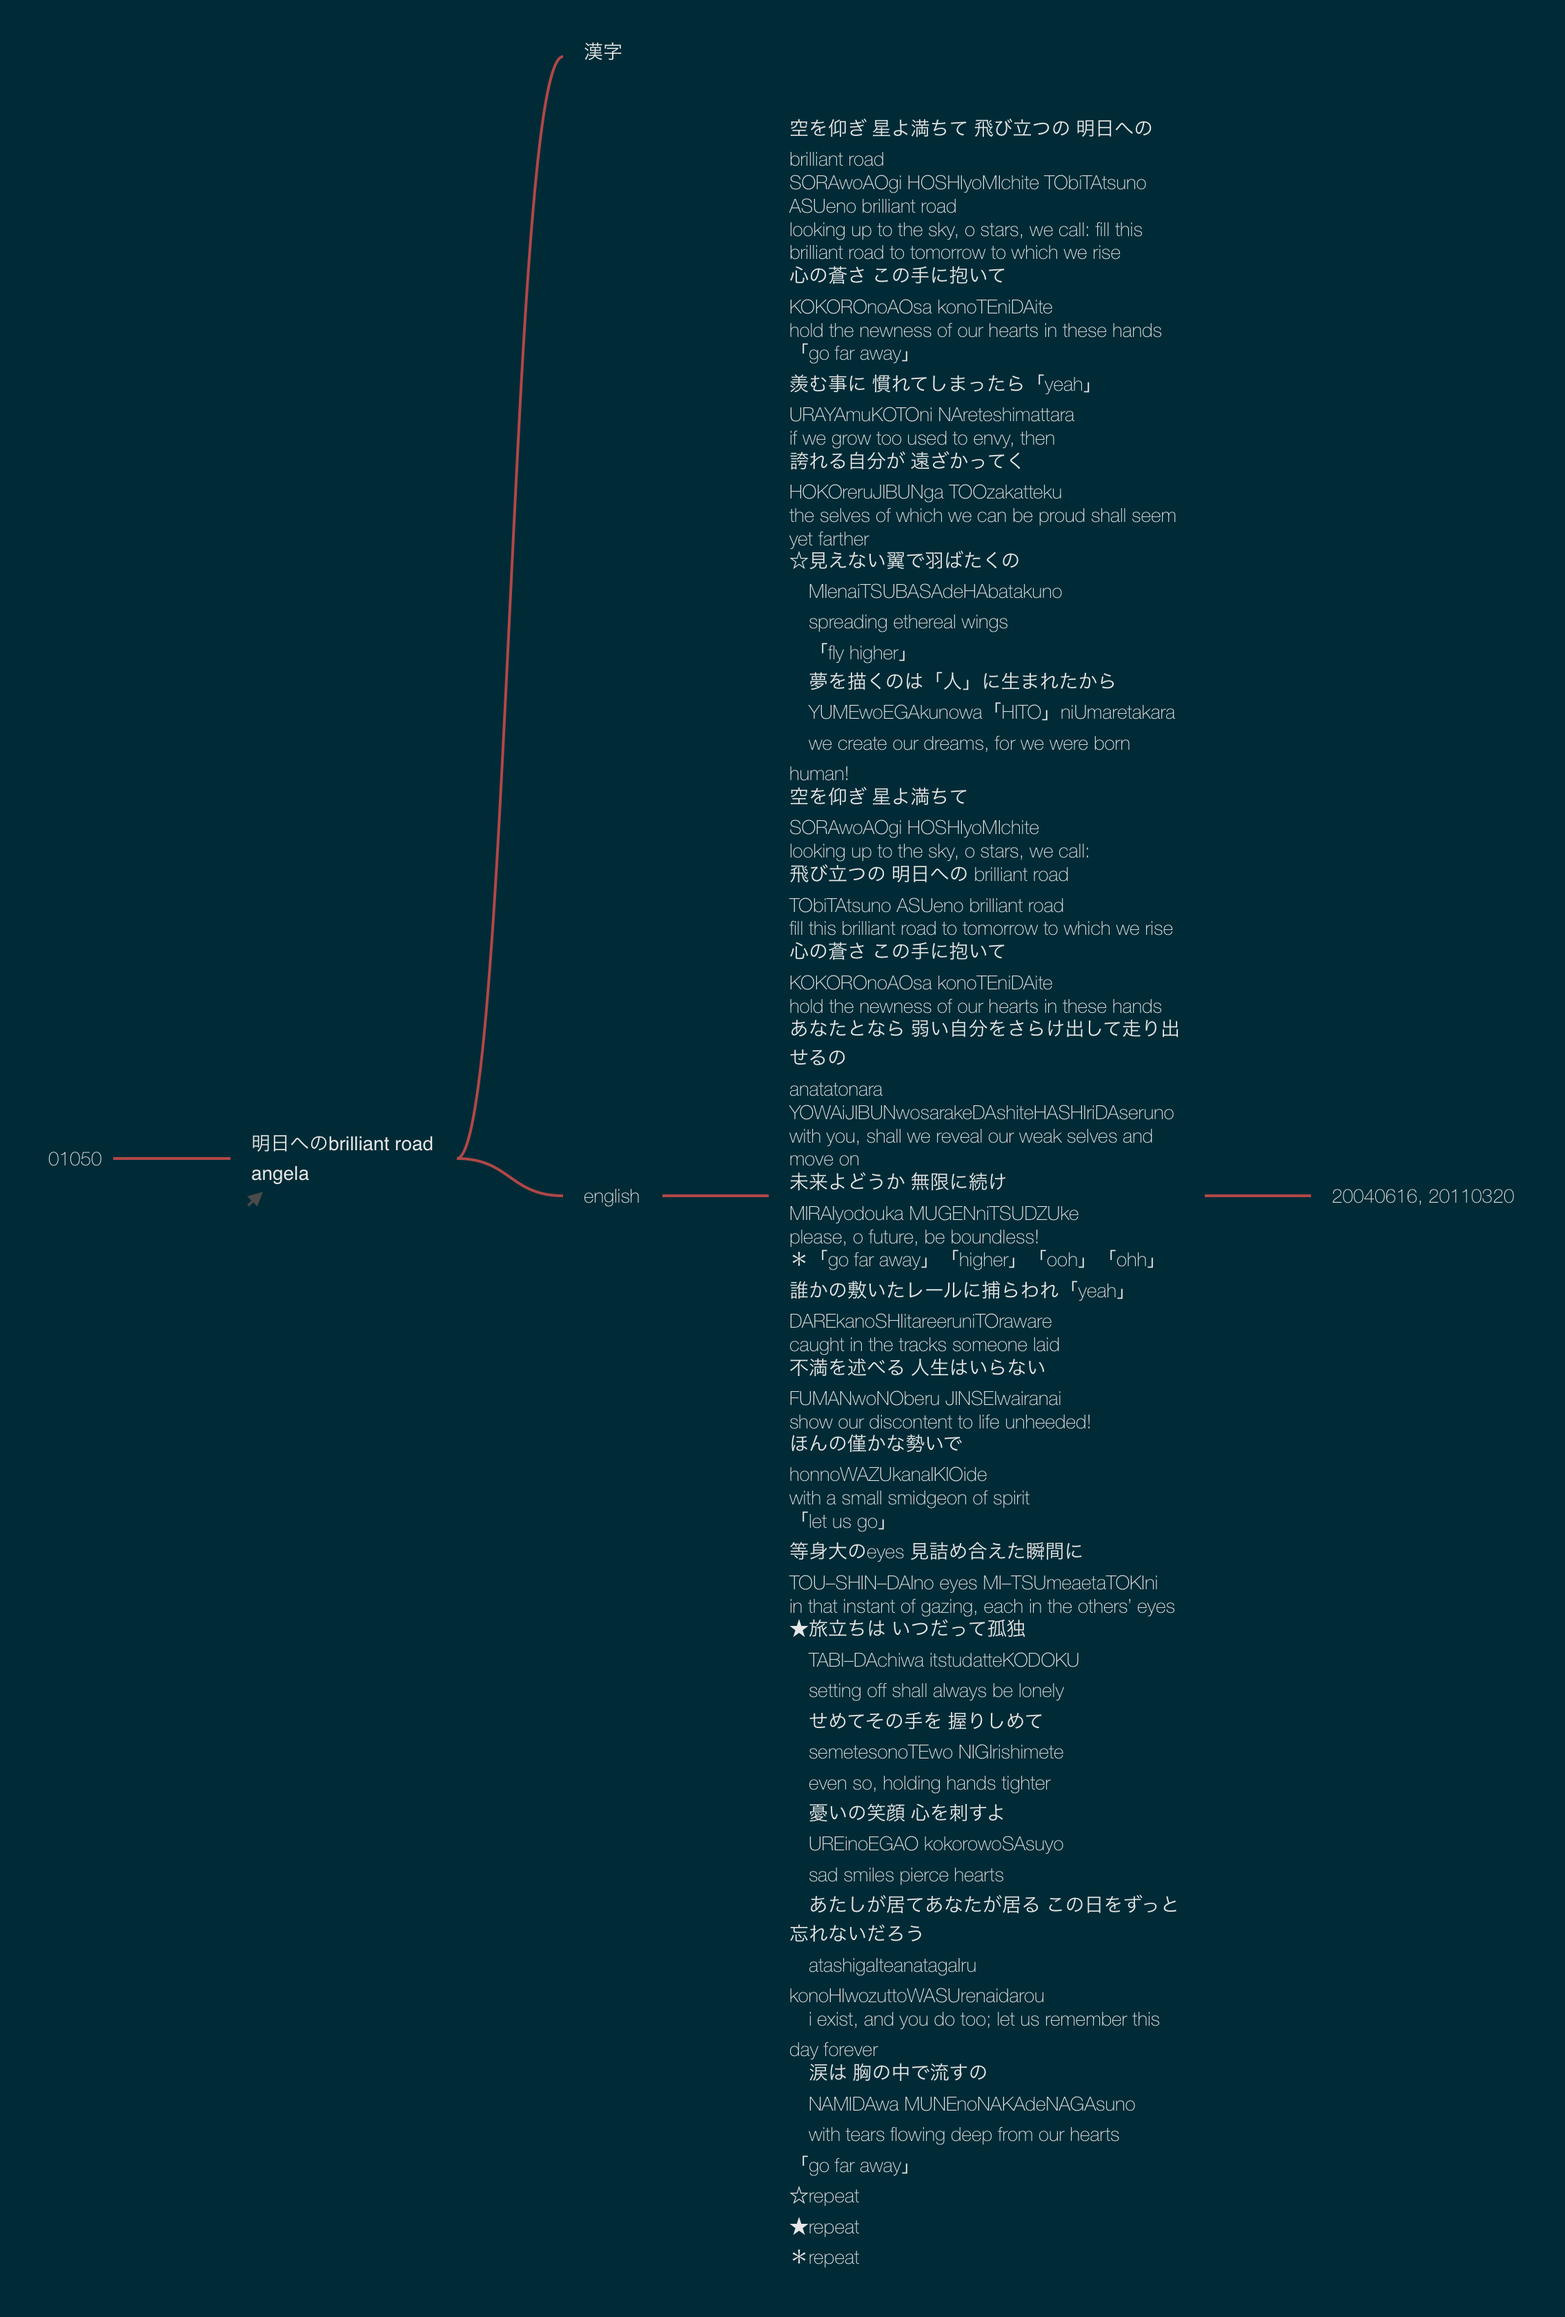
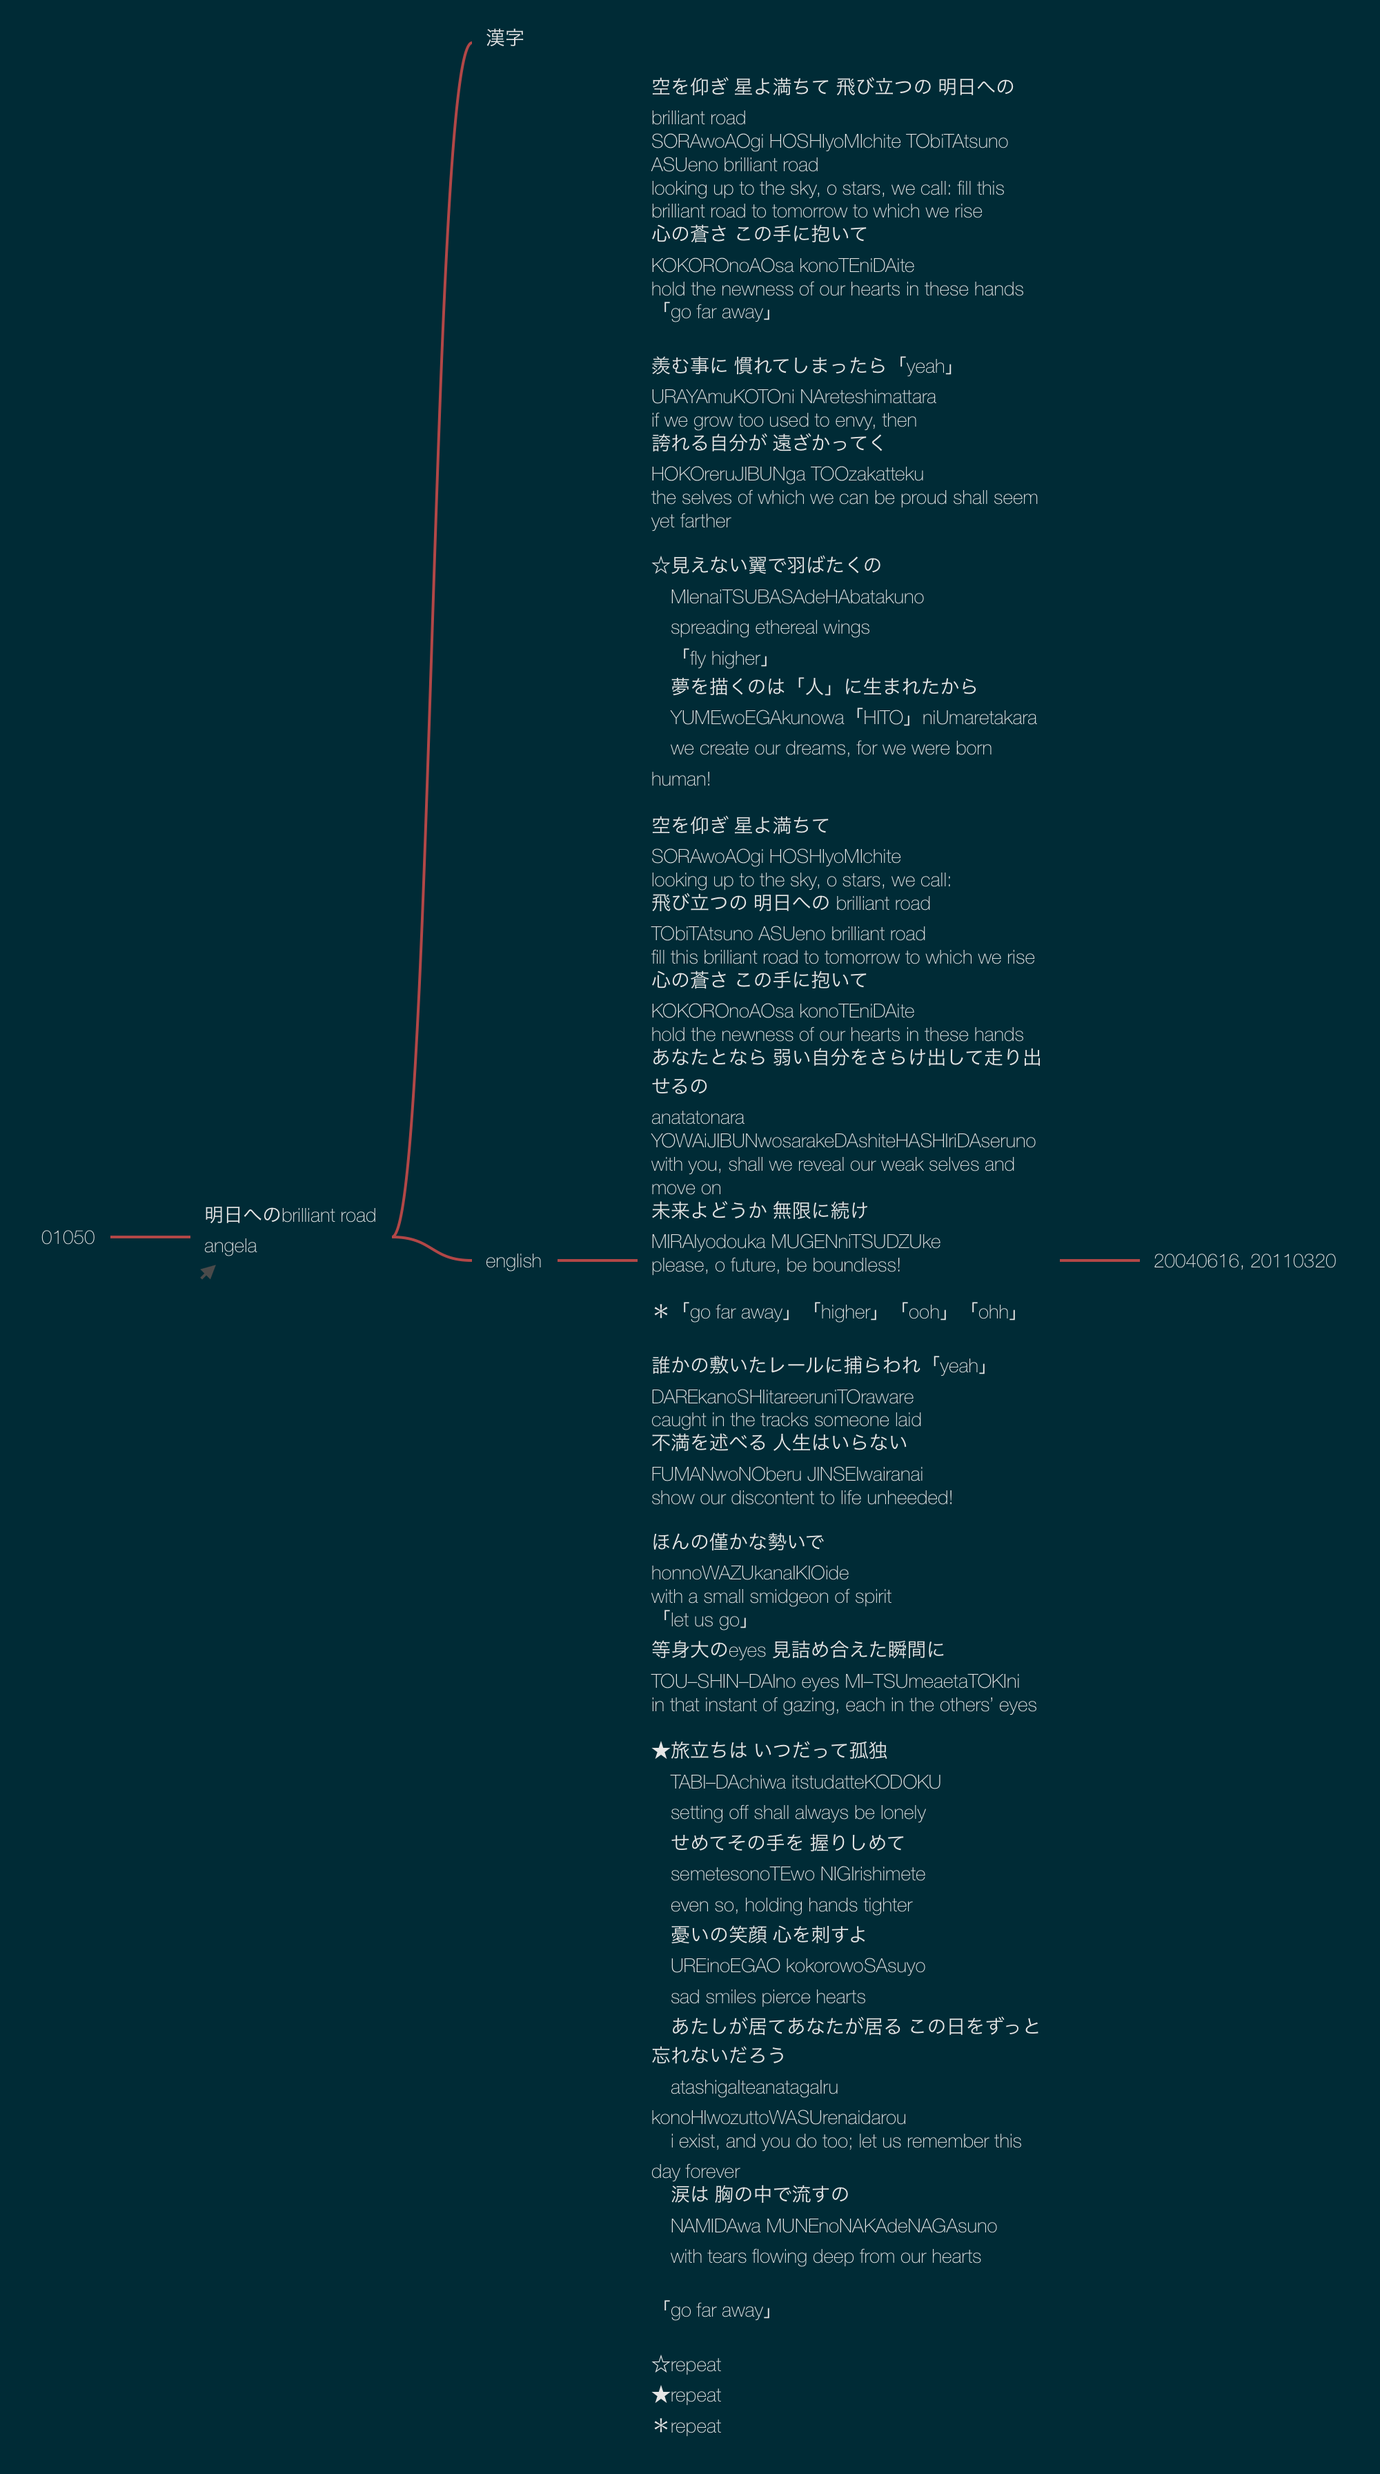
puff and world update

diff --git a/01065.html b/01065.html
@@ -1,0 +1,144 @@
+<html>
+<head>
+<meta http-equiv="Content-Type" content="text/html; charset=UTF-8"/>
+<title>01065</title>
+<script type="text/javascript">
+function showhide(id)
+{
+    var e = document.getElementById(id);
+    e.style.display = (e.style.display == 'block') ? 'none' : 'block';
+}
+</script>
+<style>
+rect {
+transition: .6s fill;
+fill: #D3D3D3;
+opacity: 0;
+}
+rect:hover {
+    fill: #D3D3D3;
+    opacity: 0.2;
+}
+
+.outline {
+    clear: both;
+}
+
+.svg-container {
+    width: 100%;
+    max-width: 1334px;
+    margin-left: auto;
+    margin-right: auto;
+    display: block;
+}
+
+.svg-content {
+    width: 100%;
+}
+
+.container {
+    width: 100%;
+}
+</style>
+
+</head>
+
+<body>
+
+<div class="container"><div class="spacer">&nbsp;</div><div class="svg-container"><svg version="1.1"  preserveAspectRatio="xMinYMin meet" class="svg-content" viewBox="0 0 1334 2424" xmlns="http://www.w3.org/2000/svg" xmlns:xlink="http://www.w3.org/1999/xlink">
+<image width="1334" height="2424" xlink:href="01065-assets/01065.png"></image>
+<a xlink:href="https://soundcloud.com/makiaea/we-are-the-world-michael-jackson-usa-for-africa-cover-vocal" xlink:title="https://soundcloud.com/makiaea/we-are-the-world-michael-jackson-usa-for-africa-cover-vocal"><rect x="286" y="1006" width="28" height="28"/></a>
+<a xlink:href="https://soundcloud.com/makiaea/we-are-the-world-michael-jackson-usa-for-africa-cover-third-version-makiaea-vocal-solo" xlink:title="https://soundcloud.com/makiaea/we-are-the-world-michael-jackson-usa-for-africa-cover-third-version-makiaea-vocal-solo"><rect x="286" y="2008" width="28" height="28"/></a>
+</svg>
+</div>
+</div>
+
+<br/>
+<a href="javascript:showhide('outlineDiv')">Outline show/hide</a>
+<div id="outlineDiv" style="display:none;">
+<h1>01065</h1>
+<h2><em>we are the world</em></h2>
+<p>various<br />
+Link: <a href="https://soundcloud.com/makiaea/we-are-the-world-michael-jackson-usa-for-africa-cover-vocal">soundcloud.com/makiaea/we-are-the-world-michael-jackson-usa-for-africa-cover-vocal</a></p>
+<ul>
+<li>
+<p>there comes a time<br />
+when we heed a certain call<br />
+when the world<br />
+must come together as one</p>
+<p>the earth is dying<br />
+it’s time to lend a hand<br />
+to life<br />
+our greatest gift of all</p>
+<p>we could go on<br />
+pretending day by day<br />
+that someone, someone else<br />
+can make this change (can break these chains)</p>
+<p>but we’re all a part of<br />
+one wondrous family<br />
+and in truth (we know)<br />
+love is all we need</p>
+<p>☆we are the world<br />
+　we are her children<br />
+　we all can make the world a brighter place (we all can live life full of harmony)<br />
+　so let’s begin now (so let’s pitch in now)<br />
+　there’s a choice we’re making<br />
+　we’re saving all our lives<br />
+　it’s true we make a better day<br />
+　for you and me</p>
+<p>whoa! open your hearts<br />
+and / show you also care<br />
+and our lives / will be / stronger and free<br />
+as the earth shows us<br />
+by turning stone to bread<br />
+so we all / must lend a helping hand</p>
+<p>☆repeat</p>
+<p>when you’re down and out<br />
+there may seem no hope at all<br />
+but when we still believe<br />
+there’s no way we can fall</p>
+<p>whoa whoa whoa whoa! just realise<br />
+that change will finally come (that change has finally come)<br />
+when we / stand together as one (and we now / stand together as one) (now we / all stand together as one)</p>
+<p>☆repeat</p>
+<ul>
+<li>20070816, 20080828, 20090120</li>
+</ul>
+</li>
+</ul>
+<h2><em>we are the world</em></h2>
+<p>earth version<br />
+Link: <a href="https://soundcloud.com/makiaea/we-are-the-world-michael-jackson-usa-for-africa-cover-third-version-makiaea-vocal-solo">soundcloud.com/makiaea/we-are-the-world-michael-jackson-usa-for-africa-cover-third-version-makiaea-vocal-solo</a></p>
+<h2>chords</h2>
+<ul>
+<li>
+<ul>
+<li>lowestE B E highestA Ab or E B E A E B Ab E B or E B E A highest E Ab</li>
+</ul>
+</li>
+<li>
+<ul>
+<li>1: E Ab B, 2: E A Cs, 3:E Fs B, 4:Eb Fs B, 5: Cs E Gs, 6: Gs B Ds, 7: Fs A Cs,</li>
+</ul>
+</li>
+<li>
+<ul>
+<li>1231,231,567234; repeat</li>
+</ul>
+</li>
+<li>
+<ul>
+<li>chorus 241, 24121, 567341</li>
+</ul>
+</li>
+<li>
+<ul>
+<li>bridge Cmaj, Dmaj, Emaj. repeat, 562734</li>
+</ul>
+</li>
+</ul>
+
+</div>
+
+</body>
+</html>

diff --git a/01062.html b/01062.html
@@ -1,0 +1,116 @@
+<html>
+<head>
+<meta http-equiv="Content-Type" content="text/html; charset=UTF-8"/>
+<title>01062</title>
+<script type="text/javascript">
+function showhide(id)
+{
+    var e = document.getElementById(id);
+    e.style.display = (e.style.display == 'block') ? 'none' : 'block';
+}
+</script>
+<style>
+rect {
+transition: .6s fill;
+fill: #D3D3D3;
+opacity: 0;
+}
+rect:hover {
+    fill: #D3D3D3;
+    opacity: 0.2;
+}
+
+.outline {
+    clear: both;
+}
+
+.svg-container {
+    width: 100%;
+    max-width: 1656px;
+    margin-left: auto;
+    margin-right: auto;
+    display: block;
+}
+
+.svg-content {
+    width: 100%;
+}
+
+.container {
+    width: 100%;
+}
+</style>
+
+</head>
+
+<body>
+
+<div class="container"><div class="spacer">&nbsp;</div><div class="svg-container"><svg version="1.1"  preserveAspectRatio="xMinYMin meet" class="svg-content" viewBox="0 0 1656 2520" xmlns="http://www.w3.org/2000/svg" xmlns:xlink="http://www.w3.org/1999/xlink">
+<image width="1656" height="2520" xlink:href="01062-assets/01062.png"></image>
+<a xlink:href="https://soundcloud.com/makiaea/puff-the-magic-dragon" xlink:title="https://soundcloud.com/makiaea/puff-the-magic-dragon"><rect x="720" y="2468" width="28" height="28"/></a>
+<a xlink:href="https://soundcloud.com/makiaea/20110429puffvocalandpiano3" xlink:title="https://soundcloud.com/makiaea/20110429puffvocalandpiano3"><rect x="720" y="2356" width="28" height="28"/></a>
+</svg>
+</div>
+</div>
+
+<br/>
+<a href="javascript:showhide('outlineDiv')">Outline show/hide</a>
+<div id="outlineDiv" style="display:none;">
+<h1>01062</h1>
+<h2><em>puff the magic dragon</em></h2>
+<p>peter, paul, and mary</p>
+<ul>
+<li>
+<p>☆(oh) puff / the magic dragon<br />
+　lived by the sea<br />
+　and frolicked in the autumn mist<br />
+　in a land called honalee (repeat x1)</p>
+<p>little jackie paper / loved that rascal puff<br />
+and brought him strings and sealing wax and other fancy stuff</p>
+<p>☆chorus</p>
+<p>together they would travel / on a boat with billowed sail<br />
+jackie kept a lookout / perched on puff’s gigantic tail<br />
+noble kings and princes / would bow whene’er they came<br />
+pirate ships would lower their flags when puff roared out his name</p>
+<p>☆chorus</p>
+<p>a dragon lives forever / but not so girls and boys<br />
+painted wings and giant rings / make way for other toys<br />
+one grey night it happened / jackie paper came no more<br />
+and puff that mighty dragon / he ceased his fearless roar</p>
+<p>his head hung bent in sorrow / green scales fell like rain<br />
+puff no longer went to play / along the cherry lane<br />
+without his life–long friend / puff could not be brave<br />
+so puff that mighty dragon / sadly slipped into his cave</p>
+<p>☆chorus (once froliced by the sea)</p>
+<p>so of years many did pass / in a land called honalee<br />
+one day came an adventurer / to a cave down by a sea<br />
+this little one reached up / calling out, “you must be puff<br />
+i seek a fearsome dragon friend / are you brave enough? (tough enough)</p>
+<p>there be seas (that) need a’sailing / (new) lands yet to explore<br />
+we may not have forever / but i’ll love you all the same<br />
+my name is mary paper / would you like to come and play?”<br />
+that day puff roared a mighty roar / that chased his fears away</p>
+<p>★(yes) puff / the magic dragon<br />
+　lives by the sea (present tense now!)<br />
+　and frolics in the autumn mist<br />
+　in a land called honalee (repeat x1)</p>
+<ul>
+<li>20100403</li>
+</ul>
+</li>
+<li>
+<p><em>puff the magic dragon</em><br />
+vocal and piano<br />
+Link: <a href="https://soundcloud.com/makiaea/20110429puffvocalandpiano3">soundcloud.com/makiaea/20110429puffvocalandpiano3</a></p>
+</li>
+<li>
+<p><em>puff the magic dragon</em><br />
+vocal<br />
+Link: <a href="https://soundcloud.com/makiaea/puff-the-magic-dragon">soundcloud.com/makiaea/puff-the-magic-dragon</a></p>
+</li>
+</ul>
+
+</div>
+
+</body>
+</html>

diff --git a/01050.html b/01050.html
@@ -26,7 +26,7 @@ rect:hover {
 
 .svg-container {
     width: 100%;
-    max-width: 2268px;
+    max-width: 2000px;
     margin-left: auto;
     margin-right: auto;
     display: block;
@@ -45,9 +45,9 @@ rect:hover {
 
 <body>
 
-<div class="container"><div class="spacer">&nbsp;</div><div class="svg-container"><svg version="1.1"  preserveAspectRatio="xMinYMin meet" class="svg-content" viewBox="0 0 2268 3356" xmlns="//www.w3.org/2000/svg" xmlns:xlink="//www.w3.org/1999/xlink">
-<image width="2268" height="3356" xlink:href="01050-assets/01050.png"></image>
-<a xlink:href="workflow://run-workflow?name=songsearch&input=text&text=brilliant " xlink:title="workflow://run-workflow?name=songsearch&amp;input=text&amp;text=brilliant "><rect x="354" y="1724" width="28" height="28"/></a>
+<div class="container"><div class="spacer">&nbsp;</div><div class="svg-container"><svg version="1.1"  preserveAspectRatio="xMinYMin meet" class="svg-content" viewBox="0 0 2000 3584" xmlns="http://www.w3.org/2000/svg" xmlns:xlink="http://www.w3.org/1999/xlink">
+<image width="2000" height="3584" xlink:href="01050-assets/01050.png"></image>
+<a xlink:href="workflow://run-workflow?name=songsearch&input=text&text=brilliant " xlink:title="workflow://run-workflow?name=songsearch&amp;input=text&amp;text=brilliant "><rect x="286" y="1830" width="28" height="28"/></a>
 </svg>
 </div>
 </div>
@@ -58,7 +58,7 @@ rect:hover {
 <h1>01050</h1>
 <h2>明日へのbrilliant road</h2>
 <p>angela<br />
-Link: <a href="workflow://run-workflow?name=songsearch&amp;input=text&amp;text=brilliant">run-workflow?name=songsearch&amp;input=text&amp;text=brilliant </a></p>
+Link: <a href="workflow://run-workflow?name=songsearch&amp;input=text&amp;text=brilliant">run-workflow</a></p>
 <ul>
 <li>
 <p>漢字</p>
